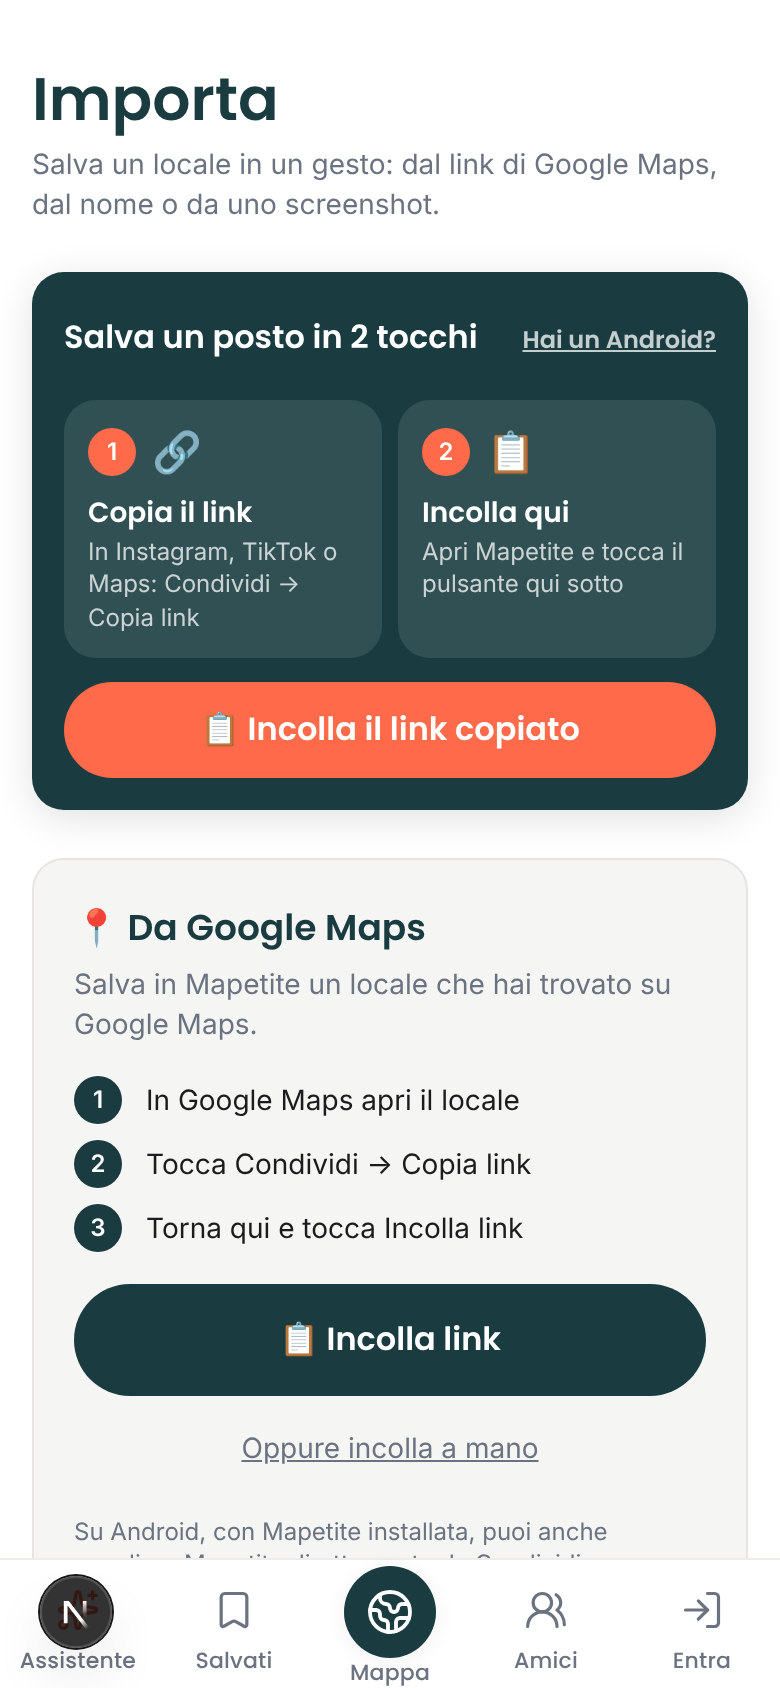
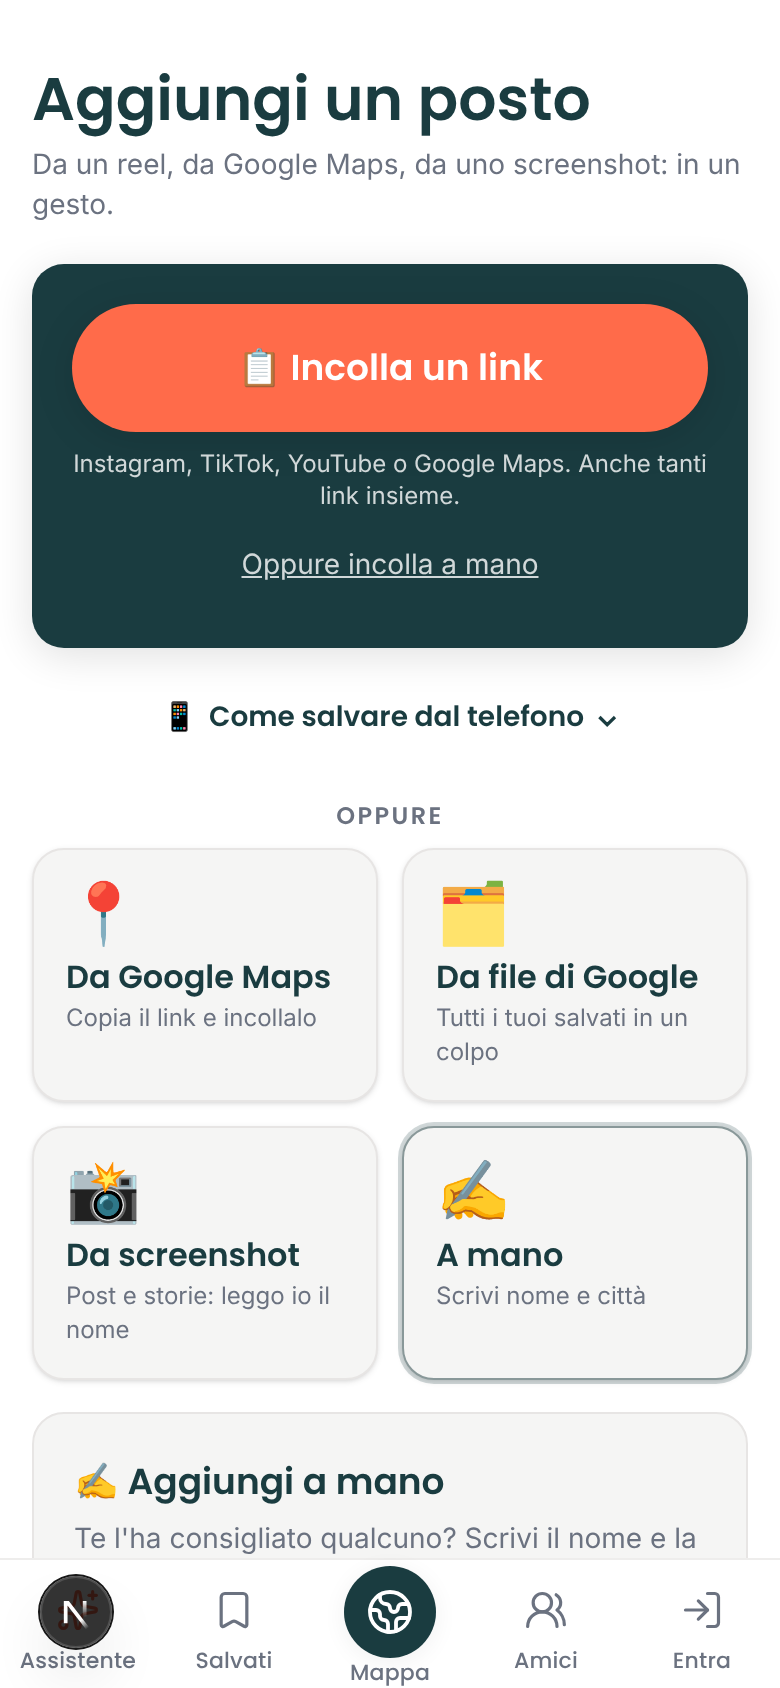
docs: in corso adesso (sabato 17/10)
Claude-Session: https://claude.ai/code/session_01DhPNdKW18kYkodr1CE6CS7

Changed region(s): [[0.0308, 0.154, 0.9846, 0.4929], [0.0923, 0.5237, 0.9846, 0.9242], [0.0308, 0.0308, 0.9538, 0.1232]]

diff --git a/docs/autonomia/BACKLOG.md b/docs/autonomia/BACKLOG.md
@@ -8,7 +8,7 @@ L'ordine è la priorità. Lorenzo può riordinare o commentare qui o nelle PR.
 
 ## Avanzamento verso il 25/10
 **Piano fino al 25/10: `PIANO-25-OTTOBRE.md` (si segue quello, in ordine).**
-**In corso adesso:** nessuna sessione. Sera 16/10: PR con card dei risultati, Salvati, assistente e Importa semplificati (se non è unita, la sessione delle 22:00 riparte da `claude/brave-mccarthy-xop6ic`: rifare il giro e unire).
+**In corso adesso:** sabato 17/10 dalle 00:05, branch `claude/brave-mccarthy-x08njv`: prove vere delle 10 ricerche di TEST-RICERCHE con Haiku; mappa chiara stile Places per tutti; foto degli utenti (diario e community); voci aperte piccole (doppio "Salta" nel primo accesso, accesso prima del primo accesso, zona della mappa nelle ricerche, microfono 44px).
 **Aggiornato 16/10 sera (20:15–22:00, chiesto da Lorenzo: semplificare ancora).** Card dei risultati più basse (nome, 1 riga di fatti, verdetto; il resto nella scheda; intestazione su una riga con "⋯"); Salvati con una sola riga (cerca + Stasera) e tutto il resto nel foglio Filtri; assistente come una chat (risposta breve, carosello compatto, chip "Prenota il primo", prenotazione in 2 passi); Importa come Albo (un solo "Incolla un link" e 4 tessere). Da decidere: "Salta" e "Lo faccio dopo" doppi al passo 3 del primo accesso.
 **Aggiornato 16/10 pomeriggio (chiesto da Lorenzo fino alle 15:30).** In produzione la PR #50: schermi più puliti (pannello ristoratore a schede, "💡 Idee" sulla mappa, assistente con chip, profilo a tessere, amici, scheda del locale a sezioni), barra con la Mappa al centro, barra ferma su iPhone. Nuova PR: vicino a me adesso e raggio (2.1), carica il file di Google Takeout (3.2, file), salva da iPhone in 2 tocchi (3.3), Scopritori 💎 (5.6, migrazione applicata), controllo qualità 390/360 (6.6, `QA-2026-10-16.md`), cerchio della Mappa dentro la barra (prima copriva le barre fisse). Manca per il 25/10: lanciare l'account demo (Lorenzo), prove su telefoni veri (9.3), collegare a Google i locali importati senza Place ID (da decidere: costa chiamate).
 **Aggiornato 16/10 alle 06:00 (sessione delle 05:00, 4 sviluppatori in parallelo).** Fatto: liste di gruppo con voto (5.5, migrazione applicata); "Dalla community Mapetite" nella scheda: recensioni degli utenti e reel collegati (5.6c–d, migrazione applicata; foto degli utenti rimandate: manca uno spazio file); creator con badge e liste da seguire (5.6b, migrazione applicata, nessun creator nominato ancora); posti in evidenza e trend di zona dimostrativi nel pannello del ristoratore (8.3, 8.4); pagina Premium "in arrivo" (8b); script dell'account demo e copione di 5 minuti (9.2: lo script va lanciato da Lorenzo, all'ambiente non è permesso scrivere utenti in produzione); link "Per i ristoratori" nel profilo. Manca per il 25/10: lanciare l'account demo, nominare 1–2 creator veri, controllo qualità 390/360 (6.6), prove su telefoni veri (9.3).
